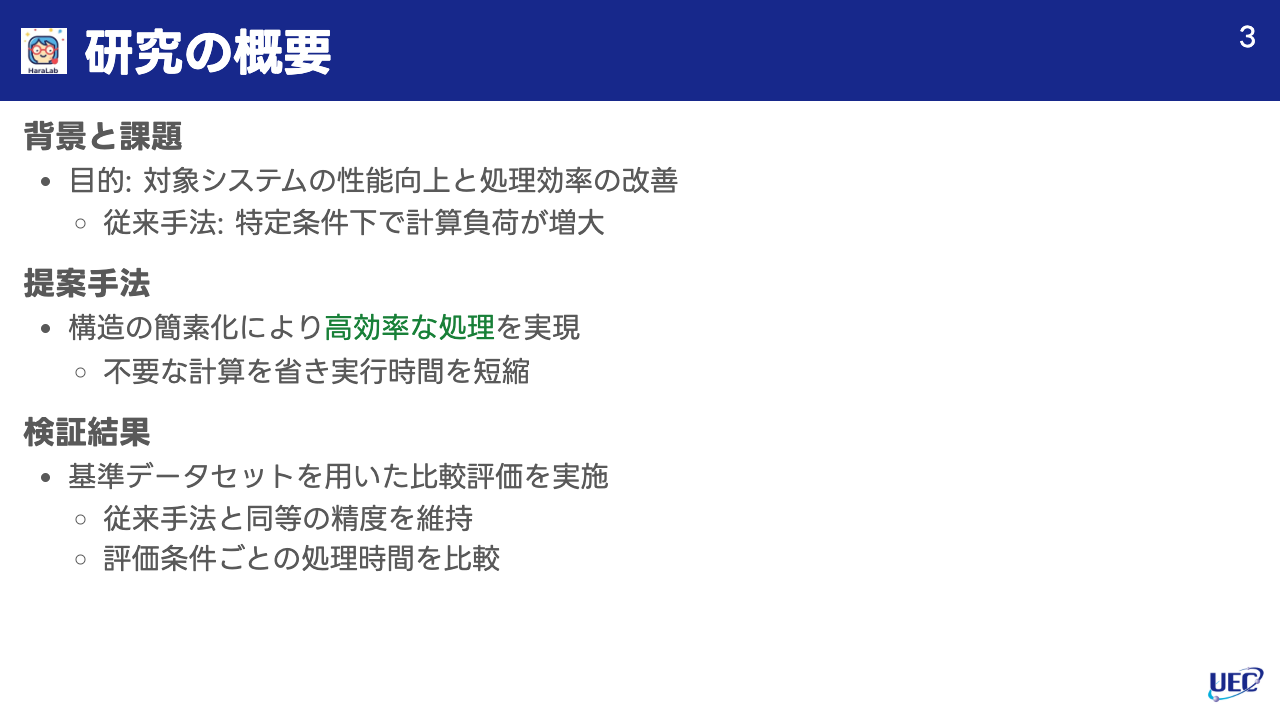
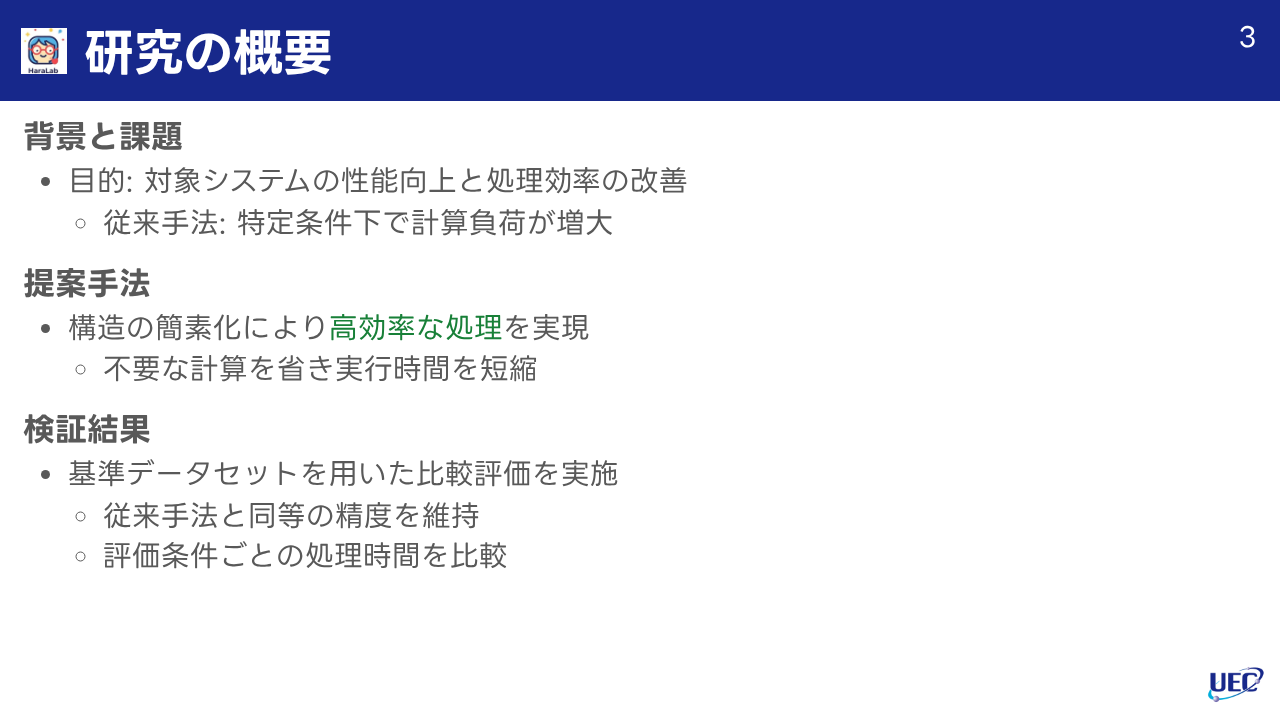
fix(uec-haralab): wrap phrases and shorten sample email (#12)
* fix(uec-haralab): wrap Japanese phrases naturally

* fix(example): shorten UEC sample contact address

* fix(uec-haralab): wrap content headings

* chore(docs): refresh theme preview input hashes

---------

diff --git a/themes/uec-haralab.css b/themes/uec-haralab.css
@@ -134,6 +134,11 @@ section ul {
   margin-top: 0;
 }
 
+section[lang="ja"] {
+  word-break: auto-phrase;
+  text-wrap: pretty;
+}
+
 section:not(.title-page) {
   padding: var(--uec-content-top) var(--uec-content-inline) 44px;
   font-size: var(--uec-body-font-size);
@@ -155,6 +160,10 @@ section:not(.title-page) > h1 {
   line-height: 1.16;
   text-align: left;
   text-wrap: nowrap;
+}
+
+section[lang="ja"]:not(.title-page) > h1 {
+  text-wrap: pretty;
 }
 
 section:not(.title-page) > h2 {

diff --git a/scripts/fixtures/uec-phrase-wrap.md b/scripts/fixtures/uec-phrase-wrap.md
@@ -1,0 +1,19 @@
+---
+marp: true
+theme: uec-haralab
+size: 16:9
+lang: ja
+paginate: false
+---
+
+<!-- _class: title-page centered -->
+
+# 長い日本語の研究題目を意味のまとまりを保って表示するための自然な折り返し方法を検討する
+
+この資料では、自然言語処理モデルの評価に使う日本語データを複数の資料から集め、文章の意味が変わらない単位で整理してから、同じ条件で比較できる評価用データとしてまとめるための手順を具体的に説明する。
+
+---
+
+# 日本語の長い見出しで意味のまとまりを保った自然な折り返しを検証するための追加ページ
+
+本文ページの見出しにも自然な折り返しを適用する。

diff --git a/slides/example-uec-haralab/slides.md b/slides/example-uec-haralab/slides.md
@@ -24,7 +24,7 @@ Figures and equations in this talk are attributed to their original sources.
 
 Example University, Research Laboratory
 
-`presenter@example.com`
+you@example.com
 
 ---
 
@@ -38,7 +38,7 @@ Example University, Research Laboratory
 
 Example University, Research Laboratory
 
-`presenter@example.com`
+you@example.com
 
 ---
 
